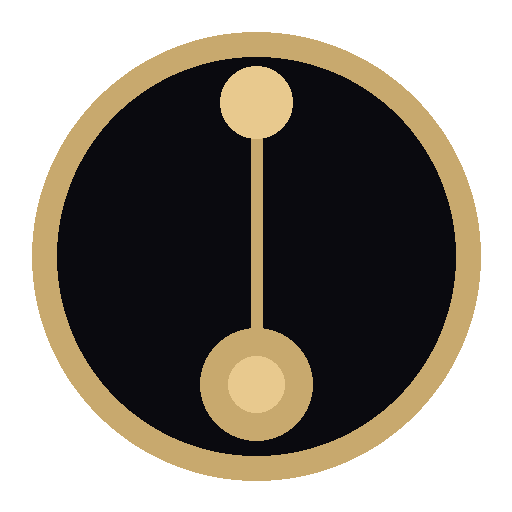
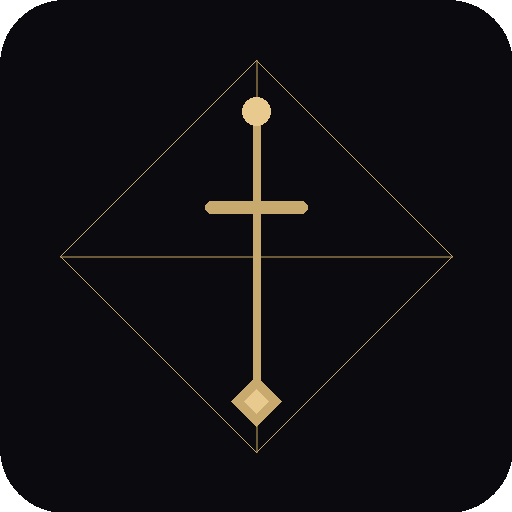
Add files via upload

diff --git a/index.html b/index.html
@@ -1962,11 +1962,127 @@
   document.getElementById('langBtn').addEventListener('click', () => {
     currentLang = currentLang === 'en' ? 'ja' : 'en';
     applyLang(currentLang);
+    saveSettings();
   });
+
+  // ── Persistence ──
+  function saveSettings() {
+    const settings = {
+      bpm,
+      beatsPerBar,
+      currentSound,
+      currentLang,
+      volume,
+      pendulumVisible: document.getElementById('pendulumToggle').checked,
+      flashEnabled: document.getElementById('flashToggle').checked,
+      theme: [...document.body.classList].find(c => c.startsWith('theme-')) || '',
+      font: [...document.body.classList].find(c => c.startsWith('font-')) || '',
+      pendStyle: [...document.getElementById('pendulum').classList].find(c => c.startsWith('pend-')) || '',
+    };
+    try { localStorage.setItem('metronome-settings', JSON.stringify(settings)); } catch(e) {}
+  }
+
+  function loadSettings() {
+    let s;
+    try { s = JSON.parse(localStorage.getItem('metronome-settings')); } catch(e) {}
+    if (!s) return;
+
+    // BPM
+    if (s.bpm) updateBPM(s.bpm);
+
+    // Beats per bar
+    if (s.beatsPerBar) {
+      beatsPerBar = s.beatsPerBar;
+      const sel = document.getElementById('timeSigSelect');
+      // Find matching option
+      [...sel.options].forEach(o => { if (+o.value === beatsPerBar) o.selected = true; });
+      buildBeats();
+    }
+
+    // Sound
+    if (s.currentSound) {
+      currentSound = s.currentSound;
+      document.querySelectorAll('#soundCards .sound-card').forEach(c => {
+        c.classList.toggle('active', c.dataset.sound === currentSound);
+      });
+    }
+
+    // Volume
+    if (s.volume !== undefined) {
+      volume = s.volume;
+      const vs = document.getElementById('volumeSlider');
+      vs.value = Math.round(s.volume * 100);
+      vs.style.setProperty('--pct', Math.round(s.volume * 100) + '%');
+      document.getElementById('volumeValue').textContent = Math.round(s.volume * 100) + '%';
+      updateVolIcon();
+    }
+
+    // Pendulum visible
+    if (s.pendulumVisible === false) {
+      document.getElementById('pendulumToggle').checked = false;
+      document.getElementById('pendulumWrap').classList.add('hidden');
+    }
+
+    // Flash
+    if (s.flashEnabled !== undefined) {
+      document.getElementById('flashToggle').checked = s.flashEnabled;
+    }
+
+    // Theme
+    if (s.theme) {
+      document.body.classList.remove('theme-neon','theme-sakura','theme-slate','theme-ember','theme-forest','theme-kintsugi','theme-midnight','theme-rose','theme-arctic','theme-obsidian');
+      document.body.classList.add(s.theme);
+      document.querySelectorAll('.theme-card').forEach(c => {
+        c.classList.toggle('active', ('theme-' + c.dataset.theme) === s.theme || (c.dataset.theme === '' && !s.theme));
+      });
+    }
+
+    // Font
+    if (s.font) {
+      document.body.classList.remove(...fontClasses);
+      document.body.classList.add(s.font);
+      document.querySelectorAll('#fontCards .sound-card').forEach(c => {
+        c.classList.toggle('active', c.dataset.font === s.font);
+      });
+    }
+
+    // Pendulum style
+    if (s.pendStyle) {
+      const pend = document.getElementById('pendulum');
+      pend.classList.remove(...pendStyles);
+      pend.classList.add(s.pendStyle);
+      document.querySelectorAll('#pendulumCards .sound-card').forEach(c => {
+        c.classList.toggle('active', c.dataset.pend === s.pendStyle);
+      });
+    }
+
+    // Language
+    if (s.currentLang && s.currentLang !== 'en') {
+      currentLang = s.currentLang;
+      applyLang(currentLang);
+    }
+  }
+
+  // Hook save onto all interactive controls
+  [
+    'timeSigSelect', 'pendulumToggle', 'flashToggle', 'volumeSlider',
+    'bpmSlider', 'minus10', 'minus5', 'minus1', 'plus1', 'plus5', 'plus10'
+  ].forEach(id => {
+    const el = document.getElementById(id);
+    if (el) el.addEventListener('change', saveSettings);
+    if (el) el.addEventListener('input', saveSettings);
+    if (el) el.addEventListener('click', saveSettings);
+  });
+
+  document.getElementById('themeCards').addEventListener('click', () => setTimeout(saveSettings, 50));
+  document.getElementById('fontCards').addEventListener('click', () => setTimeout(saveSettings, 50));
+  document.getElementById('soundCards').addEventListener('click', () => setTimeout(saveSettings, 50));
+  document.getElementById('pendulumCards').addEventListener('click', () => setTimeout(saveSettings, 50));
 
   // Init
   buildBeats();
   updateBPM(120);
+  loadSettings();
 </script>
 <script>
   if ('serviceWorker' in navigator) {